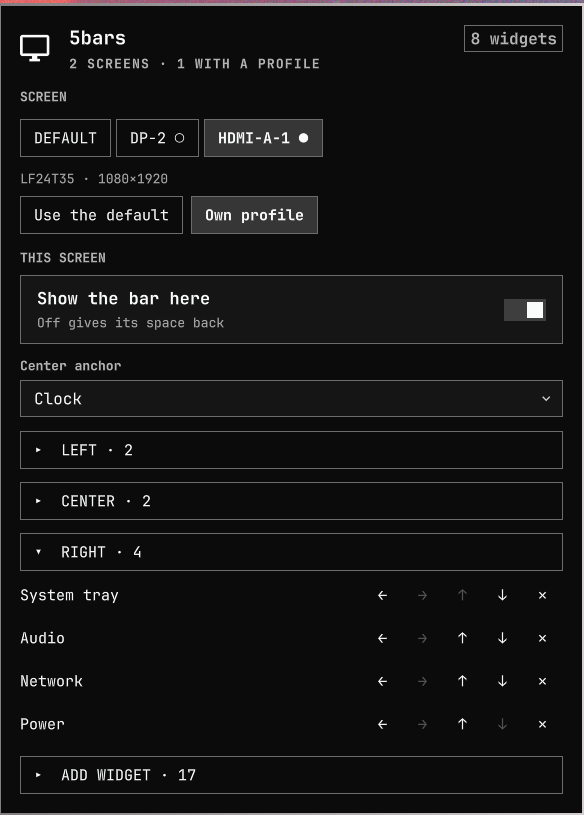
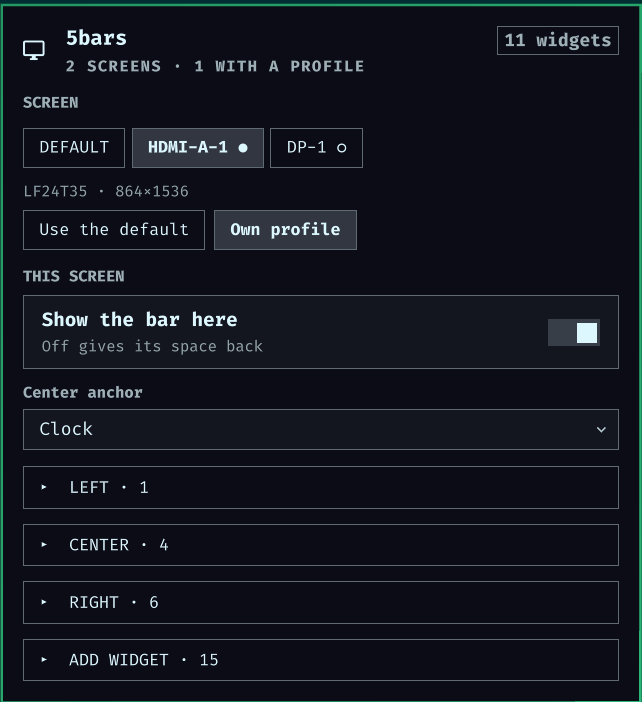
📝 docs: re-shoot the panel, and show what a capsule looks like
`preview.png` and `assets/panel-screen.png` were still the 1.0.0 shots — an
older theme, eight widgets, and a panel from before any of this existed. Next
to the reshot default tab they read as two different programs.

The Pills section had no picture at all, which for the feature the release is
named after is the wrong way round. `assets/pills.png` is a strip of the real
bar with its capsules.

diff --git a/README.md b/README.md
@@ -82,6 +82,8 @@ switched off. Toggling transparency while pills are on (double-click, the
 menu, `omarchy bar transparent`, the panel) flips that value **and** switches
 pills off, so the gesture always lands on the look it names.
 
+<img src="assets/pills.png" alt="A bar with each widget in its own rounded capsule on a clear strip" width="760">
+
 A widget that paints its own backdrop opts out of the capsule with
 `"pill": false` on its layout entry.
 
